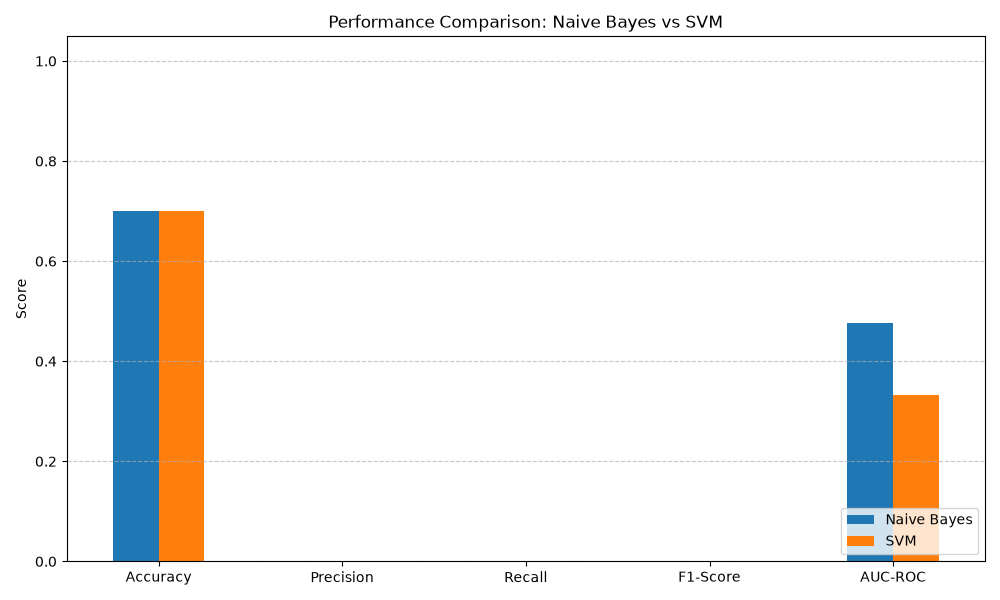
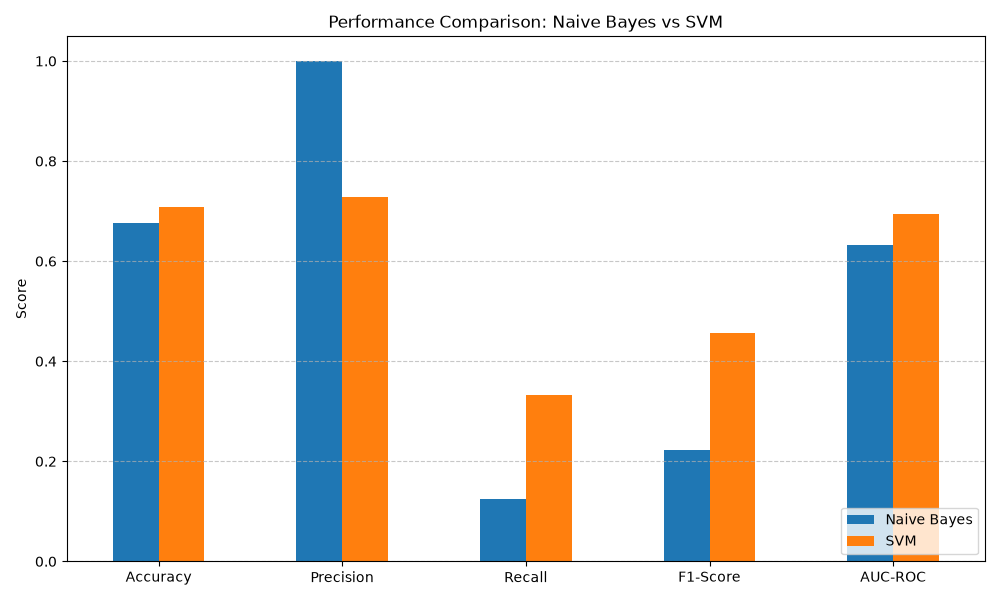
feat: update evaluation metrics and confusion matrix handling in summary report

diff --git a/src/models/classifier_pipeline.py b/src/models/classifier_pipeline.py
@@ -83,6 +83,12 @@ class ClassifierPipeline:
         # 7. Generate Classification Report and Confusion Matrices
         self.save_confusion_matrix(y_test, nb_preds, "Naive Bayes", os.path.join(output_dir, "nb_confusion_matrix.png"))
         self.save_confusion_matrix(y_test, svm_preds, "SVM (Linear)", os.path.join(output_dir, "svm_confusion_matrix.png"))
+
+        # Keep raw confusion matrices for the textual report (tujuan 2 & 3)
+        cm_data = {
+            "Naive Bayes": confusion_matrix(y_test, nb_preds),
+            "SVM": confusion_matrix(y_test, svm_preds)
+        }
         
         # 8. Print comparison table
         results_df = pd.DataFrame(results).T
@@ -97,19 +103,85 @@ class ClassifierPipeline:
         # Plot comparison bar chart
         self.plot_comparison(results_df, os.path.join(output_dir, "comparison_plot.png"))
         
+        # 9. Predict sentiment over the full dataset to conclude public opinion on MBG
+        df_all = self.db_manager.get_ml_dataset(exclude_neutral=False)
+        X_all_vec = self.vectorizer.transform(df_all['cleaned_text'].values)
+        sentiment_dist = {}
+        for model_name, model in [("Naive Bayes", self.nb_model), ("SVM", self.svm_model)]:
+            all_preds = model.predict(X_all_vec)
+            sentiment_dist[model_name] = {
+                "positive": int((all_preds == 1).sum()),
+                "negative": int((all_preds == 0).sum())
+            }
         # Generate and save textual summary report
-        self.save_textual_summary(results_df, df, len(X_train), len(X_test), output_dir)
-        
+        self.save_textual_summary(results_df, df, len(X_train), len(X_test), output_dir, sentiment_dist, df_all, cm_data)
+
         return results
 
-    def save_textual_summary(self, results_df, dataset_df, train_size, test_size, output_dir):
+    def save_textual_summary(self, results_df, dataset_df, train_size, test_size, output_dir, sentiment_dist, full_df, cm_data):
         summary_path = os.path.join(output_dir, "evaluation_summary.txt")
         dist = dataset_df['label'].value_counts().to_dict()
-        
+
+        # Full 3-class distribution from lexicon labeling (tujuan 1)
+        full_dist = full_df['label'].value_counts().to_dict()
+        total_all = len(full_df)
+        label_id = {"positive": "Positif", "negative": "Negatif", "neutral": "Netral"}
+        full_dist_lines = "\n".join(
+            f"- {label_id[lbl]:<8}: {full_dist.get(lbl, 0)} tweet ({full_dist.get(lbl, 0) / total_all * 100:.1f}%)"
+            for lbl in ["positive", "negative", "neutral"]
+        )
+        dominant_label = max(full_dist, key=full_dist.get)
+        dominant_pct_all = full_dist[dominant_label] / total_all * 100
+        neutral_count = full_dist.get('neutral', 0)
+
         # Calculate summary metrics
         nb_acc = results_df.loc["Naive Bayes", "Accuracy"]
         svm_acc = results_df.loc["SVM", "Accuracy"]
-        
+
+        # Confusion matrix breakdown per model on test data (tujuan 2 & 3)
+        cm_lines = []
+        for model_name, cm in cm_data.items():
+            tn, fp, fn, tp = cm.ravel()
+            cm_lines.append(
+                f"- {model_name} (data uji = {test_size} tweet):\n"
+                f"  True Negative (Negatif benar ditebak Negatif)  : {tn} tweet\n"
+                f"  False Positive (Negatif salah ditebak Positif) : {fp} tweet\n"
+                f"  False Negative (Positif salah ditebak Negatif) : {fn} tweet\n"
+                f"  True Positive (Positif benar ditebak Positif)  : {tp} tweet\n"
+                f"  >> Total prediksi benar: {tn + tp} dari {test_size} tweet ({(tn + tp) / test_size * 100:.1f}%)"
+            )
+        cm_section = "\n\n".join(cm_lines)
+
+        # Determine the most effective algorithm (tujuan 4) by counting metric wins
+        metric_cols = ["Accuracy", "Precision", "Recall", "F1-Score"]
+        nb_wins = sum(results_df.loc["Naive Bayes", m] > results_df.loc["SVM", m] for m in metric_cols)
+        svm_wins = sum(results_df.loc["SVM", m] > results_df.loc["Naive Bayes", m] for m in metric_cols)
+        if nb_wins == svm_wins:
+            best_model_line = ("Kedua algoritma menunjukkan performa yang seimbang "
+                               f"({nb_wins} vs {svm_wins} metrik unggul), sehingga belum dapat ditentukan "
+                               "algoritma yang paling efektif pada dataset saat ini.")
+        else:
+            winner = "SVM (Linear Kernel)" if svm_wins > nb_wins else "Naive Bayes"
+            best_model_line = (f"Algoritma paling efektif: {winner}, unggul pada "
+                               f"{max(nb_wins, svm_wins)} dari {len(metric_cols)} metrik evaluasi "
+                               "(accuracy, precision, recall, F1-score).")
+
+        # Build per-model public sentiment conclusion lines
+        sentiment_lines = []
+        for model_name, counts in sentiment_dist.items():
+            total = counts["positive"] + counts["negative"]
+            pos_pct = counts["positive"] / total * 100 if total else 0
+            neg_pct = counts["negative"] / total * 100 if total else 0
+            dominant = "POSITIF" if counts["positive"] > counts["negative"] else "NEGATIF"
+            dominant_pct = max(pos_pct, neg_pct)
+            sentiment_lines.append(
+                f"- {model_name}:\n"
+                f"  Positif : {counts['positive']} tweet ({pos_pct:.1f}%)\n"
+                f"  Negatif : {counts['negative']} tweet ({neg_pct:.1f}%)\n"
+                f"  >> Kesimpulan: Respon publik terhadap MBG dominan {dominant} ({dominant_pct:.1f}%) menurut model {model_name}."
+            )
+        sentiment_section = "\n\n".join(sentiment_lines)
+
         # Build the text file content
         content = f"""======================================================================
 LAPORAN EVALUASI MODEL: NAIVE BAYES VS SUPPORT VECTOR MACHINE (SVM)
@@ -119,7 +191,14 @@ Output directory: {output_dir}/
 
 1. RINGKASAN DATASET & DISTRIBUSI
 ----------------------------------------------------------------------
-Total tweet yang diuji: {len(dataset_df)} tweet (Excluding neutral tweets)
+a. Distribusi Sentimen Hasil Pelabelan (Tujuan 1: Kecenderungan Sentimen)
+Total tweet berlabel: {total_all} tweet
+{full_dist_lines}
+>> Kecenderungan sentimen masyarakat terhadap Program MBG berdasarkan
+   pelabelan data dari media sosial X: dominan {label_id[dominant_label].upper()} ({dominant_pct_all:.1f}%).
+
+b. Dataset Klasifikasi Model (Excluding neutral tweets)
+Total tweet yang diuji: {len(dataset_df)} tweet
 - Jumlah Kelas Positif: {dist.get('positive', 0)} tweet
 - Jumlah Kelas Negatif: {dist.get('negative', 0)} tweet
 - Jumlah Data Training (80%): {train_size} tweet
@@ -129,7 +208,14 @@ Total tweet yang diuji: {len(dataset_df)} tweet (Excluding neutral tweets)
 ----------------------------------------------------------------------
 {results_df.to_markdown()}
 
-3. DEFINISI & CARA MEMBACA METRIK
+3. HASIL PENERAPAN MASING-MASING ALGORITMA (CONFUSION MATRIX)
+----------------------------------------------------------------------
+Rincian hasil klasifikasi tiap algoritma pada data uji
+(Tujuan 2: Penerapan Naive Bayes | Tujuan 3: Penerapan SVM):
+
+{cm_section}
+
+4. DEFINISI & CARA MEMBACA METRIK
 ----------------------------------------------------------------------
 - ACCURACY  : Persentase jawaban benar secara keseluruhan.
               Contoh: Akurasi {svm_acc:.2f} berarti model menebak {svm_acc*100:.1f}% data uji dengan benar.
@@ -139,16 +225,32 @@ Total tweet yang diuji: {len(dataset_df)} tweet (Excluding neutral tweets)
 - AUC-ROC   : Mengukur kemampuan pemisahan kelas sentimen (rentang 0.5 s.d 1.0).
               Nilai > 0.7 menunjukkan model pemisahan yang kuat/baik.
 
-4. ANALISIS DAN PERBANDINGAN METODE
+5. ANALISIS DAN PERBANDINGAN METODE (Tujuan 4: Algoritma Paling Efektif)
 ----------------------------------------------------------------------
 - Naive Bayes Accuracy : {nb_acc * 100:.2f}%
 - SVM (Linear) Accuracy : {svm_acc * 100:.2f}%
 
 * Analisis Hasil:
-{"Kedua model memiliki tingkat performa yang sama karena keterbatasan jumlah data uji saat ini. Model menebak pola yang mirip." if abs(nb_acc - svm_acc) < 1e-4 else "SVM mengungguli Naive Bayes dalam klasifikasi ini, yang sejalan dengan temuan riset pada data besar (Article.pdf)."}
+{"Kedua model memiliki tingkat akurasi yang sama karena keterbatasan jumlah data uji saat ini. Model menebak pola yang mirip." if abs(nb_acc - svm_acc) < 1e-4 else ("SVM mengungguli Naive Bayes dari sisi akurasi, yang sejalan dengan temuan riset pada data besar (Article.pdf)." if svm_acc > nb_acc else "Naive Bayes mengungguli SVM dari sisi akurasi pada dataset saat ini. Perbandingan menyeluruh (termasuk Recall, F1-Score, dan AUC-ROC) dapat dilihat pada Kesimpulan Perbandingan di bawah.")}
+
+* Kesimpulan Perbandingan:
+{best_model_line}
 
 * Keterbatasan (Class Imbalance):
 Distribusi data yang didominasi oleh kelas mayoritas mempengaruhi nilai Recall. Direkomendasikan untuk menambah variasi tweet unik guna melatih model agar lebih peka terhadap kelas minoritas.
+
+6. KESIMPULAN SENTIMEN PUBLIK TERHADAP PROGRAM MBG
+----------------------------------------------------------------------
+Prediksi sentimen dilakukan pada seluruh dataset berlabel ({sum(sentiment_dist["Naive Bayes"].values())} tweet)
+menggunakan masing-masing model yang telah dilatih:
+
+{sentiment_section}
+
+* Catatan Metodologi:
+Kedua model dilatih secara biner (positif vs negatif) mengikuti metodologi
+penelitian JATI, sehingga model tidak dapat memprediksi kelas netral.
+Berdasarkan pelabelan manual (lexicon), terdapat {neutral_count} tweet netral
+yang dikecualikan dari klasifikasi model.
 ======================================================================
 """
         with open(summary_path, "w", encoding="utf-8") as f:
